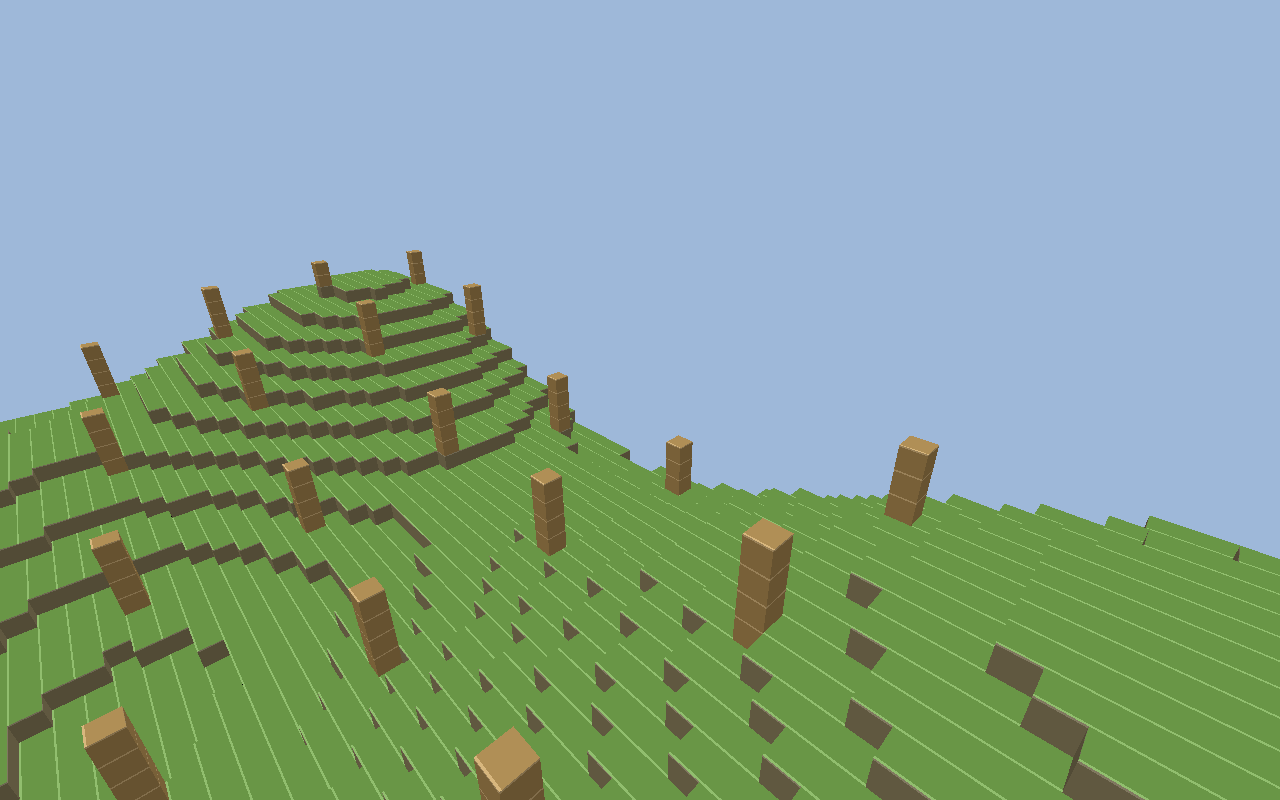
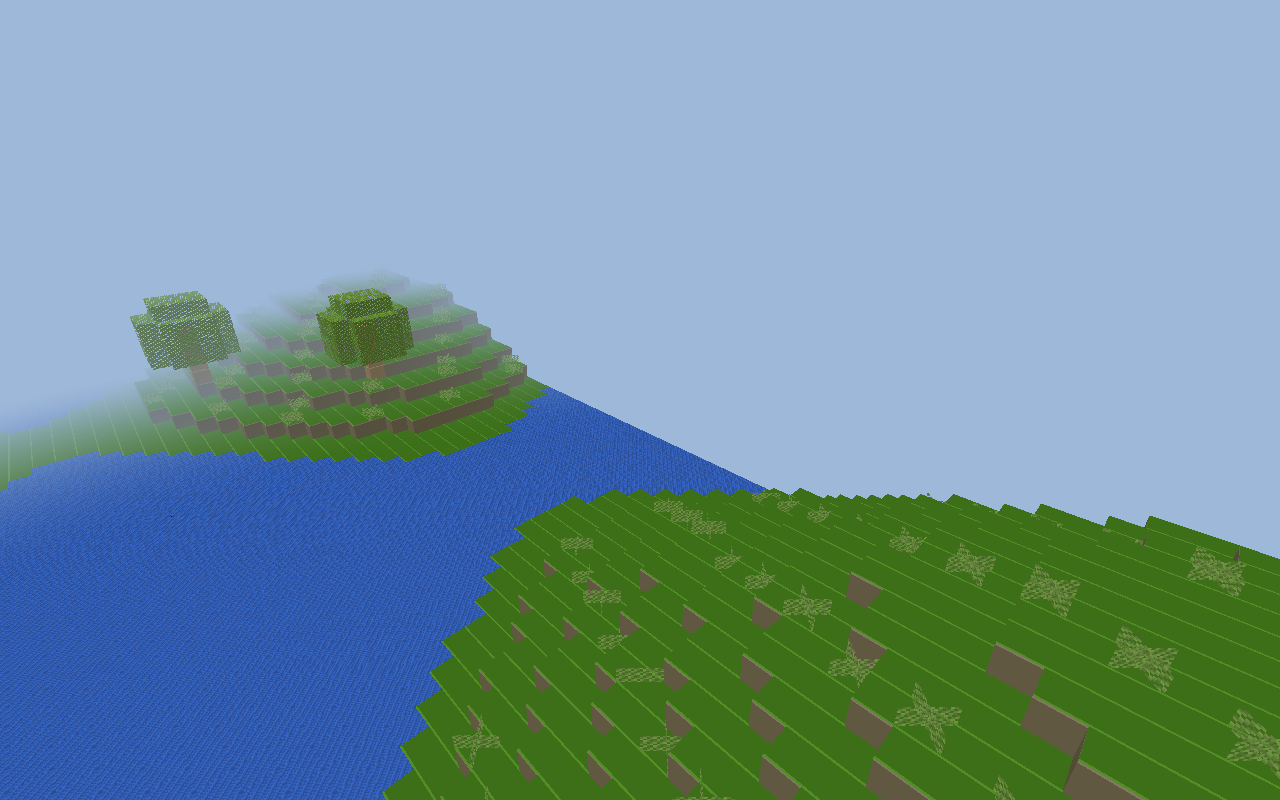
Update client screenshot

diff --git a/README.md b/README.md
@@ -53,7 +53,7 @@ Builds for Windows x64 and Linux x86-64 are attached to each [release](https://g
 ## The client
 
 <p align="center">
-  <img src="docs/media/client.png" alt="The zoo client drawing a world: terrain, trunks and a free camera" width="100%">
+  <img src="docs/media/client.png" alt="The zoo client drawing a world: hills, trees, a lake and grass tufts" width="100%">
 </p>
 
 <sub>Drawn from the demo world in <code>test/data/saves/demo</code> with the stand-in textures of <code>test/data/resources</code>, both written by <code>test/make_fixtures.py</code>, so the picture holds no Minecraft content. With your own prepared version it uses the real textures.</sub>
@@ -77,7 +77,8 @@ What it draws today is every full block as a cube, with the textures its model c
 |---|---|---|
 | 1 | Launcher with a GUI: versions, download, checks, resource preparation | working |
 | 2 | Zoo client, first look: open a singleplayer world (Anvil, NBT) and render its chunks with the real textures, free camera | working |
-| 2b | Water, leaves and the blocks that are not cubes, light from the sky | next |
+| 2b | Water, leaves, plants and grass colour (plains only) | working |
+| 2c | Light from the sky, stairs, slabs and other shapes that are not cubes | next |
 | 3 | Playable: player physics and collision, breaking and placing blocks, saving, HUD | planned |
 | 4 | The long road, in Horizon's order: world generation, mobs, redstone, multiplayer protocol, comparison tests against vanilla | planned |
 | - | Microsoft account sign-in, several instances, a mod and pack browser | planned |
